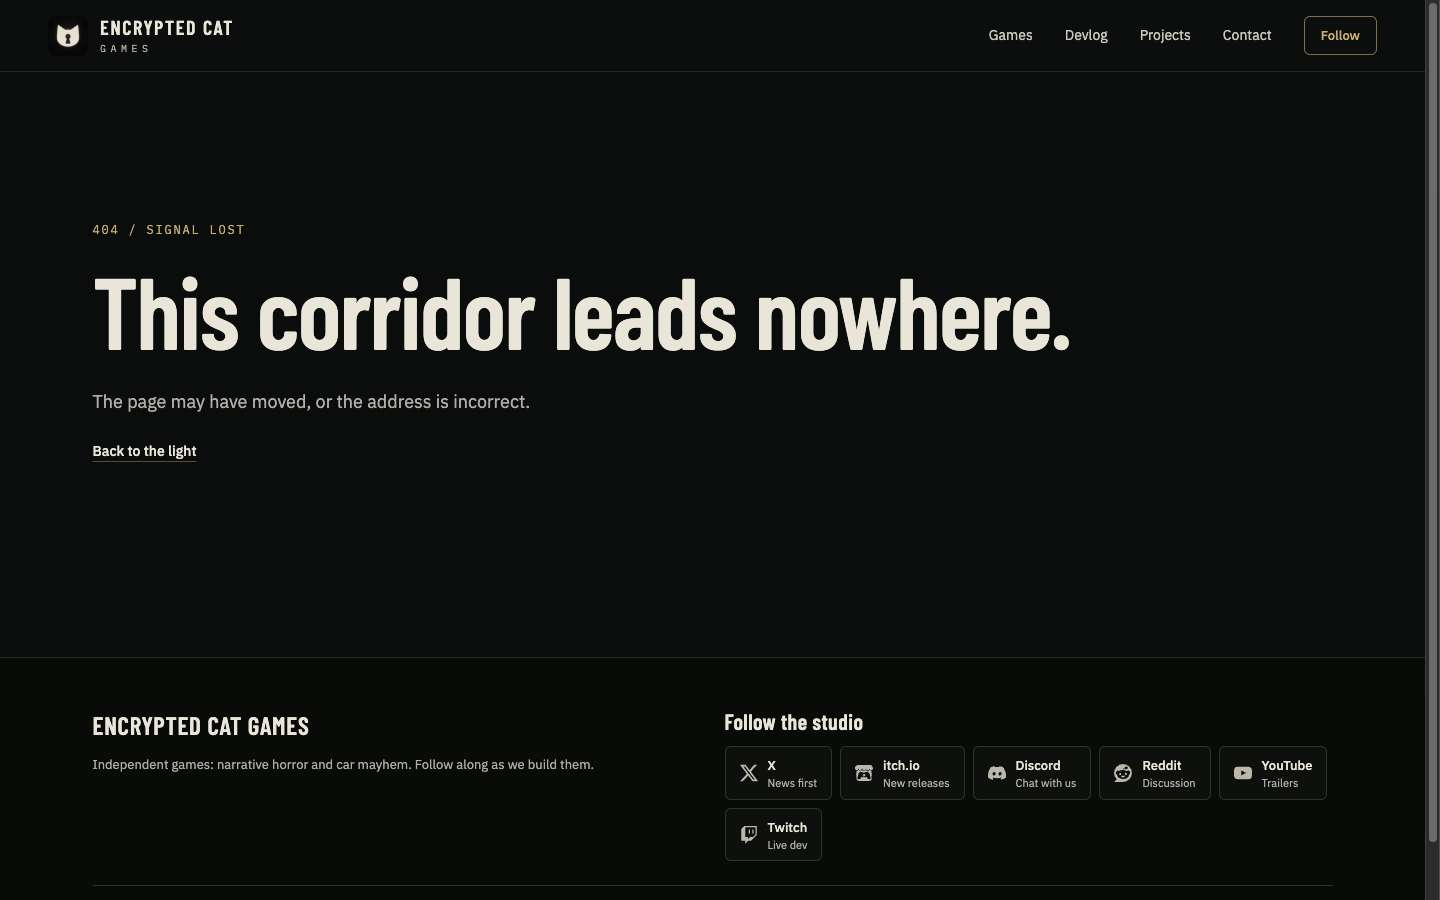
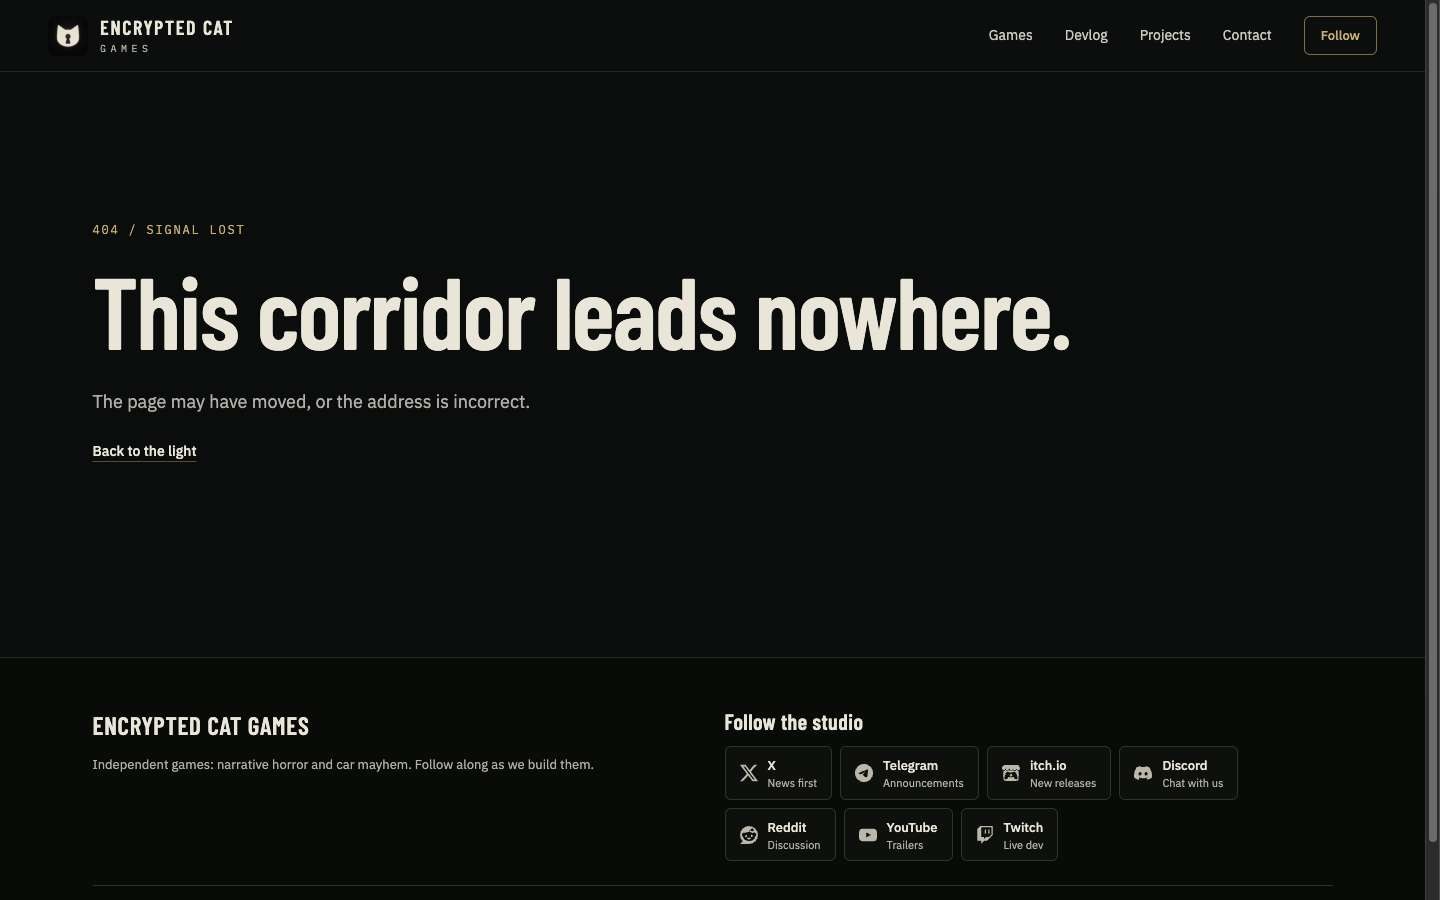
Add the Telegram channel
t.me/encryptedcatgames joins the socials after X: homepage icons, menu,
footer and the studio's schema.org sameAs. Phone icon row tightened so
all seven fit on one line.

Work item 20

Changed region(s): [[0.5938, 0.84, 0.9062, 0.9644], [0.5, 0.9022, 0.5625, 0.9644]]

diff --git a/src/styles/global.css b/src/styles/global.css
@@ -1566,6 +1566,13 @@ textarea::placeholder {
   .slide-dots {
     gap: 12px;
   }
+  .follow-links.compact {
+    gap: 6px;
+  }
+  .follow-links.compact .follow-chip {
+    width: 38px;
+    min-height: 38px;
+  }
   .slide-dots button {
     flex: 1;
     min-width: 0;

diff --git a/docs/site-structure.md b/docs/site-structure.md
@@ -48,7 +48,7 @@ Home
 
 ## Open questions
 
-- The X profile (https://x.com/encrptcatgames) is the first channel everywhere. Steam or
+- X (https://x.com/encrptcatgames) and Telegram (https://t.me/encryptedcatgames) lead the channels everywhere. Steam or
   Bluesky would go in `site.config.mjs` socials the same way.
 - A mailing list would be the strongest "follow" for people who don't use Discord; none
   exists yet.
